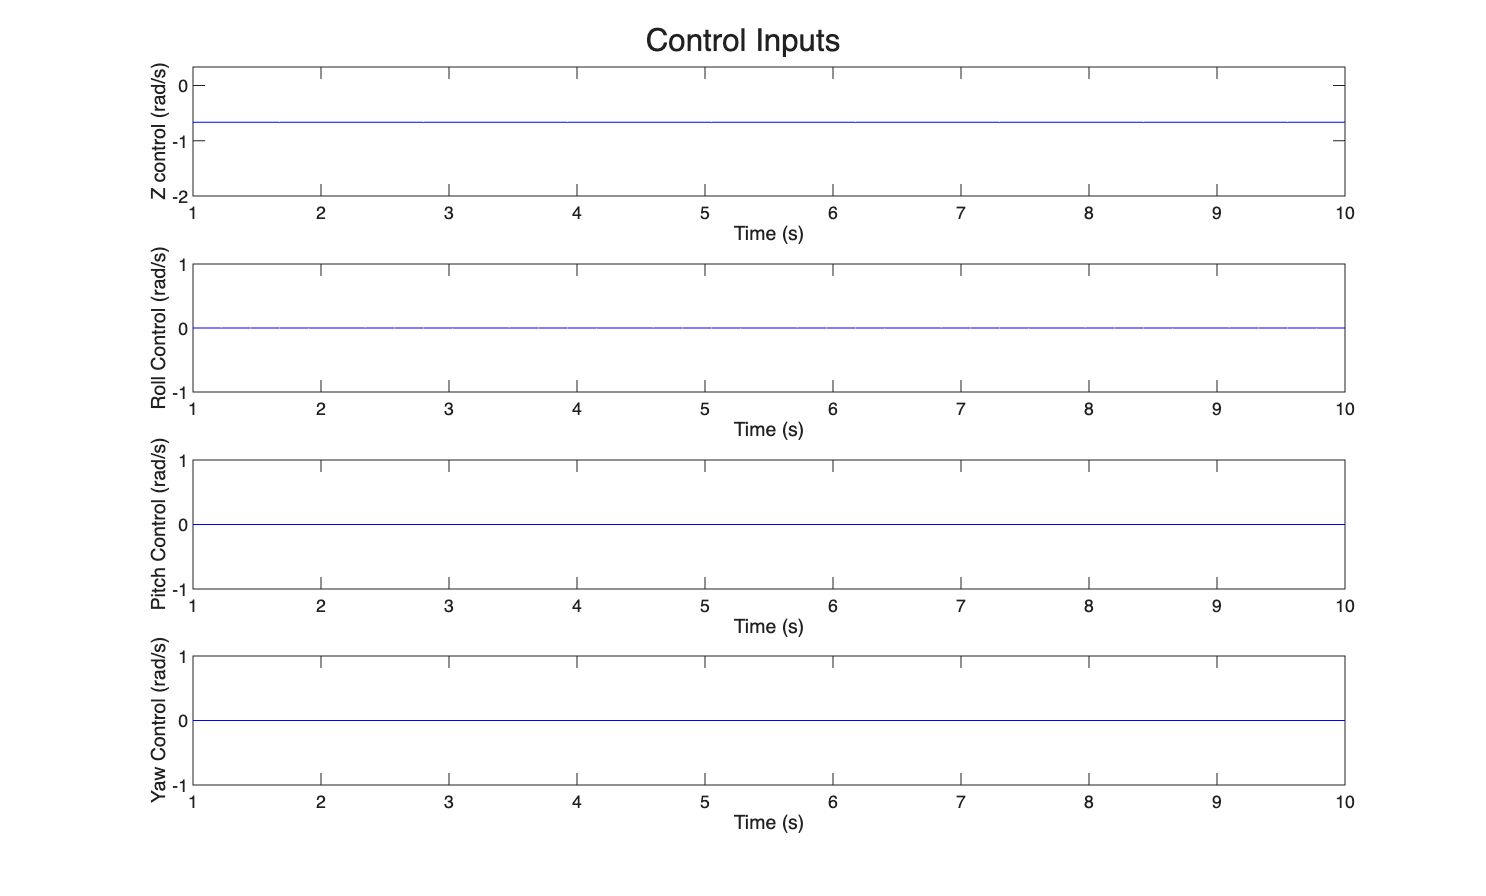
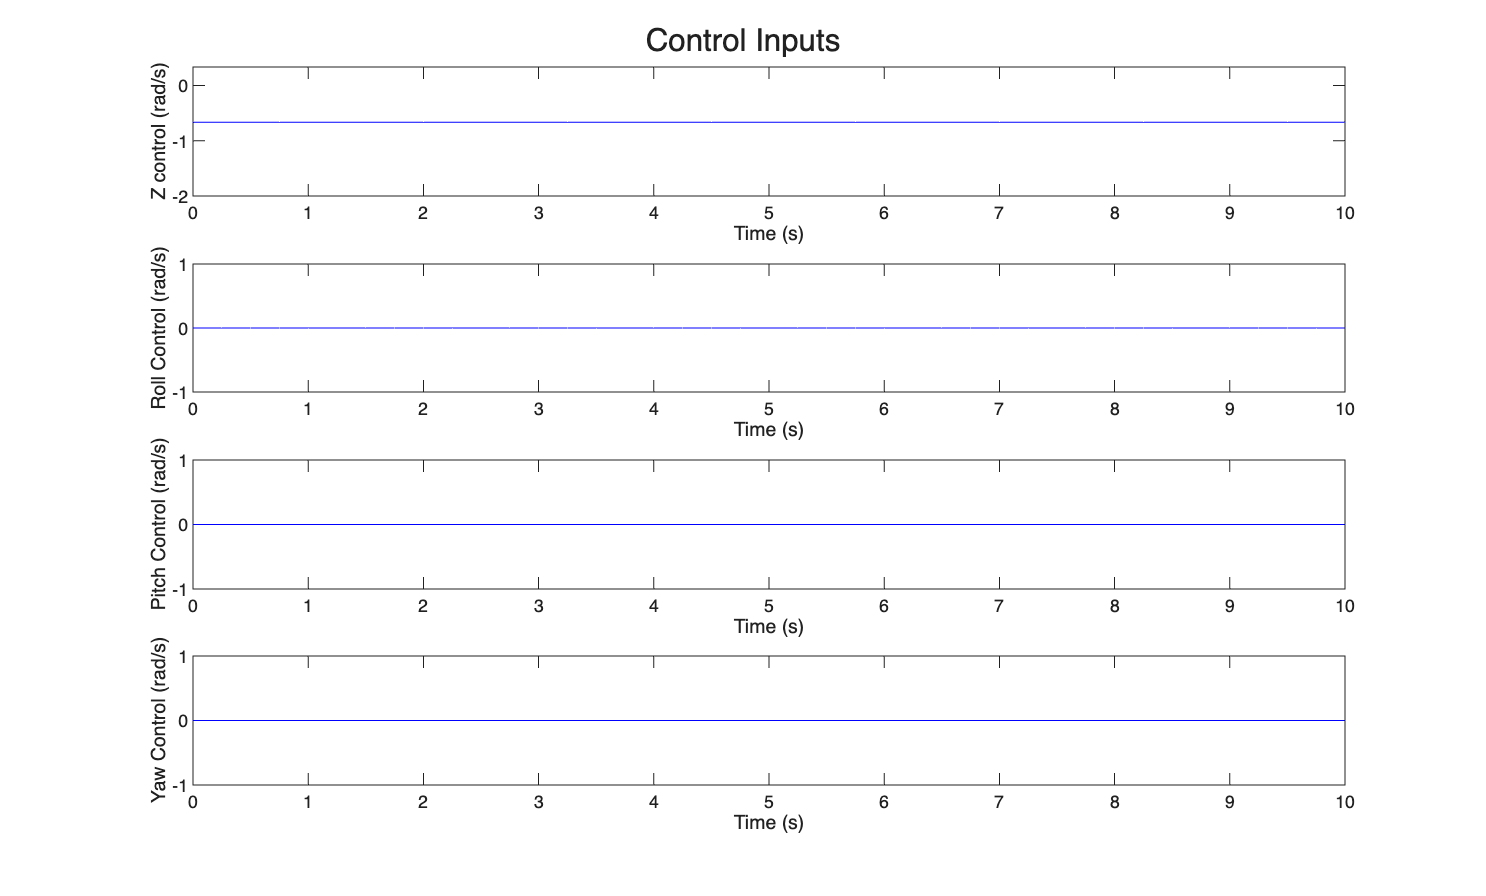
fixed

diff --git a/QuadrotorEOM.m b/QuadrotorEOM.m
@@ -1,4 +1,24 @@
 function var_dot = QuadrotorEOM(t, var, g, m, I, d, km, nu, mu, motor_forces)
+    %{
+    Inputs: t:             time
+            var:           12x1 statevector
+            g:             gravity
+            m:             mass
+            I:             Inertia Matrix
+            d:             motor distance from center
+            km:            Control moment coefficient
+            nu             Aerodynamic force coefficient
+            mu:            Aerodynamic moment coefficient
+            motor_forces:  4x1 force vector
+    Outputs: var_dot:      change in variables contained in the statevector
+    Methodology:           Use Equations of motions to simulate the 
+                           reactions of a quadrotor.
+    %}
+
+
+
+    %% Initialization
+    % Extracting our variables from the statevector
     x_e = var(1);
     y_e = var(2);
     z_e = var(3);
@@ -11,42 +31,55 @@ function var_dot = QuadrotorEOM(t, var, g, m, I, d, km, nu, mu, motor_forces)
     p = var(10);
     q = var(11);
     r = var(12);
-
+    
+    % Extracting values from the inertia matrix
     Ix = I(1,1);
     Iy = I(2,2);
     Iz = I(3,3);
-
+    
+    % Calculating the force due to aerodynamic effects
     X = -nu*norm([u v w])*u;
     Y = -nu*norm([u v w])*v;
     Z = -nu*norm([u v w])*w;
-
+    
+    % Calculating the moment due to aerodynamic effects
     L = -mu*norm([p q r])*p;
     M = -mu*norm([p q r])*q;
     N = -mu*norm([p q r])*r;
     
+    % Calculating the controls vector
     Body_motor = [-1 -1 -1 -1
                    -d/sqrt(2) -d/sqrt(2) d/sqrt(2) d/sqrt(2)
                    d/sqrt(2) -d/sqrt(2) -d/sqrt(2) d/sqrt(2)
                    km -km km -km]*motor_forces;
+
+    % Extracting the control forces and moments
     Zc = Body_motor(1);
     Lc = Body_motor(2);
     Mc = Body_motor(3);
     Nc = Body_motor(4);
 
 
-    
+    % Calculating the dcm
     DCM = [cos(theta)*cos(psi) sin(phi)*sin(theta)*cos(psi)-cos(phi)*sin(psi) cos(phi)*sin(theta)*cos(psi)+sin(phi)*sin(psi)
            cos(theta)*sin(psi) sin(phi)*sin(theta)*sin(psi)-cos(phi)*cos(psi) cos(phi)*sin(theta)*sin(psi)+sin(phi)*cos(psi)
            -sin(theta) sin(phi)*cos(theta) cos(phi)*cos(theta)];
     
+    %% Calculating the change in the variables
+    % Calculating the change in inertial position of our quadrotor
     var_dot(1:3,1) = DCM*var(7:9);
-
+    
+    % Calculating the change in euler angles of our quadrotor
     var_dot(4:6,1) = [1 sin(phi)*tan(theta) cos(phi)*tan(theta)
                        0 cos(phi) -sin(phi)
                        0 sin(phi)*sec(theta) cos(phi)*sec(theta)]*var(10:12);
+
+    % Calculating the change in velocity of our quadrotor
     var_dot(7:9,1) = [r*v-q*w-g*sin(theta)+1/m*X
                       p*w-r*u+g*cos(theta)*sin(phi)+1/m*Y
                       q*u-p*v+g*cos(theta)*cos(phi)+1/m*(Z+Zc)];
+
+    % Calculating the change in rotational velocity of our quadrotot
     var_dot(10:12,1) = [(Iy-Iz)/Ix*q*r+1/Ix*(L+Lc)
                         (Iz-Ix)/Iy*p*r+1/Iy*(M+Mc)
                         (Ix-Iy)/Iz*p*q+1/Iz*(N+Nc)];

diff --git a/Task1.m b/Task1.m
@@ -1,7 +1,8 @@
 close all
 clear
 clc
-
+%% Initialization
+% Initializing our variables
 m = .068;
 d = .06;
 km = .0024;
@@ -12,26 +13,59 @@ nu = 1*10^-3;
 mu = 2*10^-6;
 g = 9.81;
 
-
+%% Task 1 Part 1 through Part 3
+% Calculating the force values such that the quadrotor remains at hover
 force_values = g*m/4;
 
+% Creating the force values
 f = [force_values; force_values; force_values; force_values];
 Body_motor = [-1 -1 -1 -1
                    -d/sqrt(2) -d/sqrt(2) d/sqrt(2) d/sqrt(2)
                    d/sqrt(2) -d/sqrt(2) -d/sqrt(2) d/sqrt(2)
                    km -km km -km]*f;
 
+% Initializing values for ode45
 Statevector_0 = [0; 0; 10; 0; 0; 0; 0; 0; 0; 0; 0; 0];
-tspan = [1 10];
+tspan = [0 10];
 col(1) = 'b'; 
 
+% Simulating the quadrotor at hover
+[Time, Statevector] = ode45(@(t,statevector) QuadrotorEOM(t, statevector,g,m,I,d,km,nu,mu,f),tspan,Statevector_0);
+Statevector = transpose(Statevector);
+Body_motor_time = Body_motor.*ones(1,length(Time));
 
-    [Time, Statevector] = ode45(@(t,statevector) QuadrotorEOM(t, statevector,g,m,I,d,km,nu,mu,f),tspan,Statevector_0);
-    Statevector = transpose(Statevector);
-    Body_motor_time = Body_motor.*ones(1,length(Time));
+% Plotting the figure for the quadrotor
+PlotAircraftSim(Time,Statevector,Body_motor_time,1:6,col)
 
+%% Part 4 a)
 
+% Initializing conditions
+x_dot_e = 5;
 
-PlotAircraftSim(Time,Statevector,Body_motor_time,1:10,col)
+% Calculating the angle required
+theta_a = atan(-nu*x_dot_e^2/(m*g));
 
+% Calcualting the initial velocities
+u = cos(theta_a)*x_dot_e;
+w = sin(theta_a)*x_dot_e;
 
+% Calculating the require force
+force_values_four = sqrt((m*g)^2+(-nu*x_dot_e^2)^2)/4;
+
+% Creating the force values
+f_four = [force_values_four; force_values_four; force_values_four; force_values_four];
+Body_motor_four = [-1 -1 -1 -1
+                   -d/sqrt(2) -d/sqrt(2) d/sqrt(2) d/sqrt(2)
+                   d/sqrt(2) -d/sqrt(2) -d/sqrt(2) d/sqrt(2)
+                   km -km km -km]*f_four;
+
+% Initializng the state vecotr
+Statevector_0_four_a = [0; 0; 10; 0; theta_a; 0; u; 0; w; 0; 0; 0];
+
+% Simulating and ploting
+[Time_four, Statevector_four] = ode45(@(t,statevector) QuadrotorEOM(t, statevector,g,m,I,d,km,nu,mu,f_four),tspan,Statevector_0_four_a);
+Body_motor_time_four = Body_motor_four.*ones(1,length(Time_four));
+Statevector_four = transpose(Statevector_four);
+PlotAircraftSim(Time_four,Statevector_four,Body_motor_time_four,7:12,col)
+
+%% Part 4 b)

diff --git a/PlotAircraftSim.m b/PlotAircraftSim.m
@@ -16,7 +16,7 @@ function PlotAircraftSim(time, aircraft_state_array, control_input_array, fig, c
         xlabel('Time (s)')
         ylabel('Z Position (m)')
         sgtitle('Inertial Position')
-        print(fig(1),"Inertial_Position_" + num2str(i),'-dpng')
+        print(fig(1),"Inertial_Position_" + num2str(fig(1)),'-dpng')
 
 
         figure(fig(2))
@@ -34,7 +34,7 @@ function PlotAircraftSim(time, aircraft_state_array, control_input_array, fig, c
         xlabel('Time (s)')
         ylabel('Yaw (rad)')
         sgtitle('Euler angles')
-        print(fig(2),"Euler_Angles_" + num2str(i),'-dpng')
+        print(fig(2),"Euler_Angles_" + num2str(fig(1)),'-dpng')
 
         figure(fig(3))
         hold on
@@ -51,7 +51,7 @@ function PlotAircraftSim(time, aircraft_state_array, control_input_array, fig, c
         xlabel('Time (s)')
         ylabel('Z Velocity (m/s)')
         sgtitle('Inertial Velocity in Body Frame')
-        print(fig(3),"Inertial_Velocity_" + num2str(i),'-dpng')
+        print(fig(3),"Inertial_Velocity_" + num2str(fig(1)),'-dpng')
 
         figure(fig(4))
         hold on
@@ -68,7 +68,7 @@ function PlotAircraftSim(time, aircraft_state_array, control_input_array, fig, c
         xlabel('Time (s)')
         ylabel('Yaw Rate (rad/s)')
         sgtitle('Angular Velocity')
-        print(fig(4),"Angular_Velocity_" + num2str(i),'-dpng')
+        print(fig(4),"Angular_Velocity_" + num2str(fig(1)),'-dpng')
 
         figure(fig(5))
         hold on
@@ -89,7 +89,7 @@ function PlotAircraftSim(time, aircraft_state_array, control_input_array, fig, c
         xlabel('Time (s)')
         ylabel('Yaw Control (rad/s)')
         sgtitle('Control Inputs')
-        print(fig(5),"Control_Inputs_" + num2str(i),'-dpng')
+        print(fig(5),"Control_Inputs_" + num2str(fig(1)),'-dpng')
 
 
         figure(fig(6))
@@ -106,7 +106,7 @@ function PlotAircraftSim(time, aircraft_state_array, control_input_array, fig, c
         zlabel('Inertial Z Position (m)')
         grid on
         view(3)
-        print(fig(6),"3d_Position_" + num2str(i),'-dpng')
+        print(fig(6),"3d_Position_" + num2str(fig(1)),'-dpng')
 
     end
 
